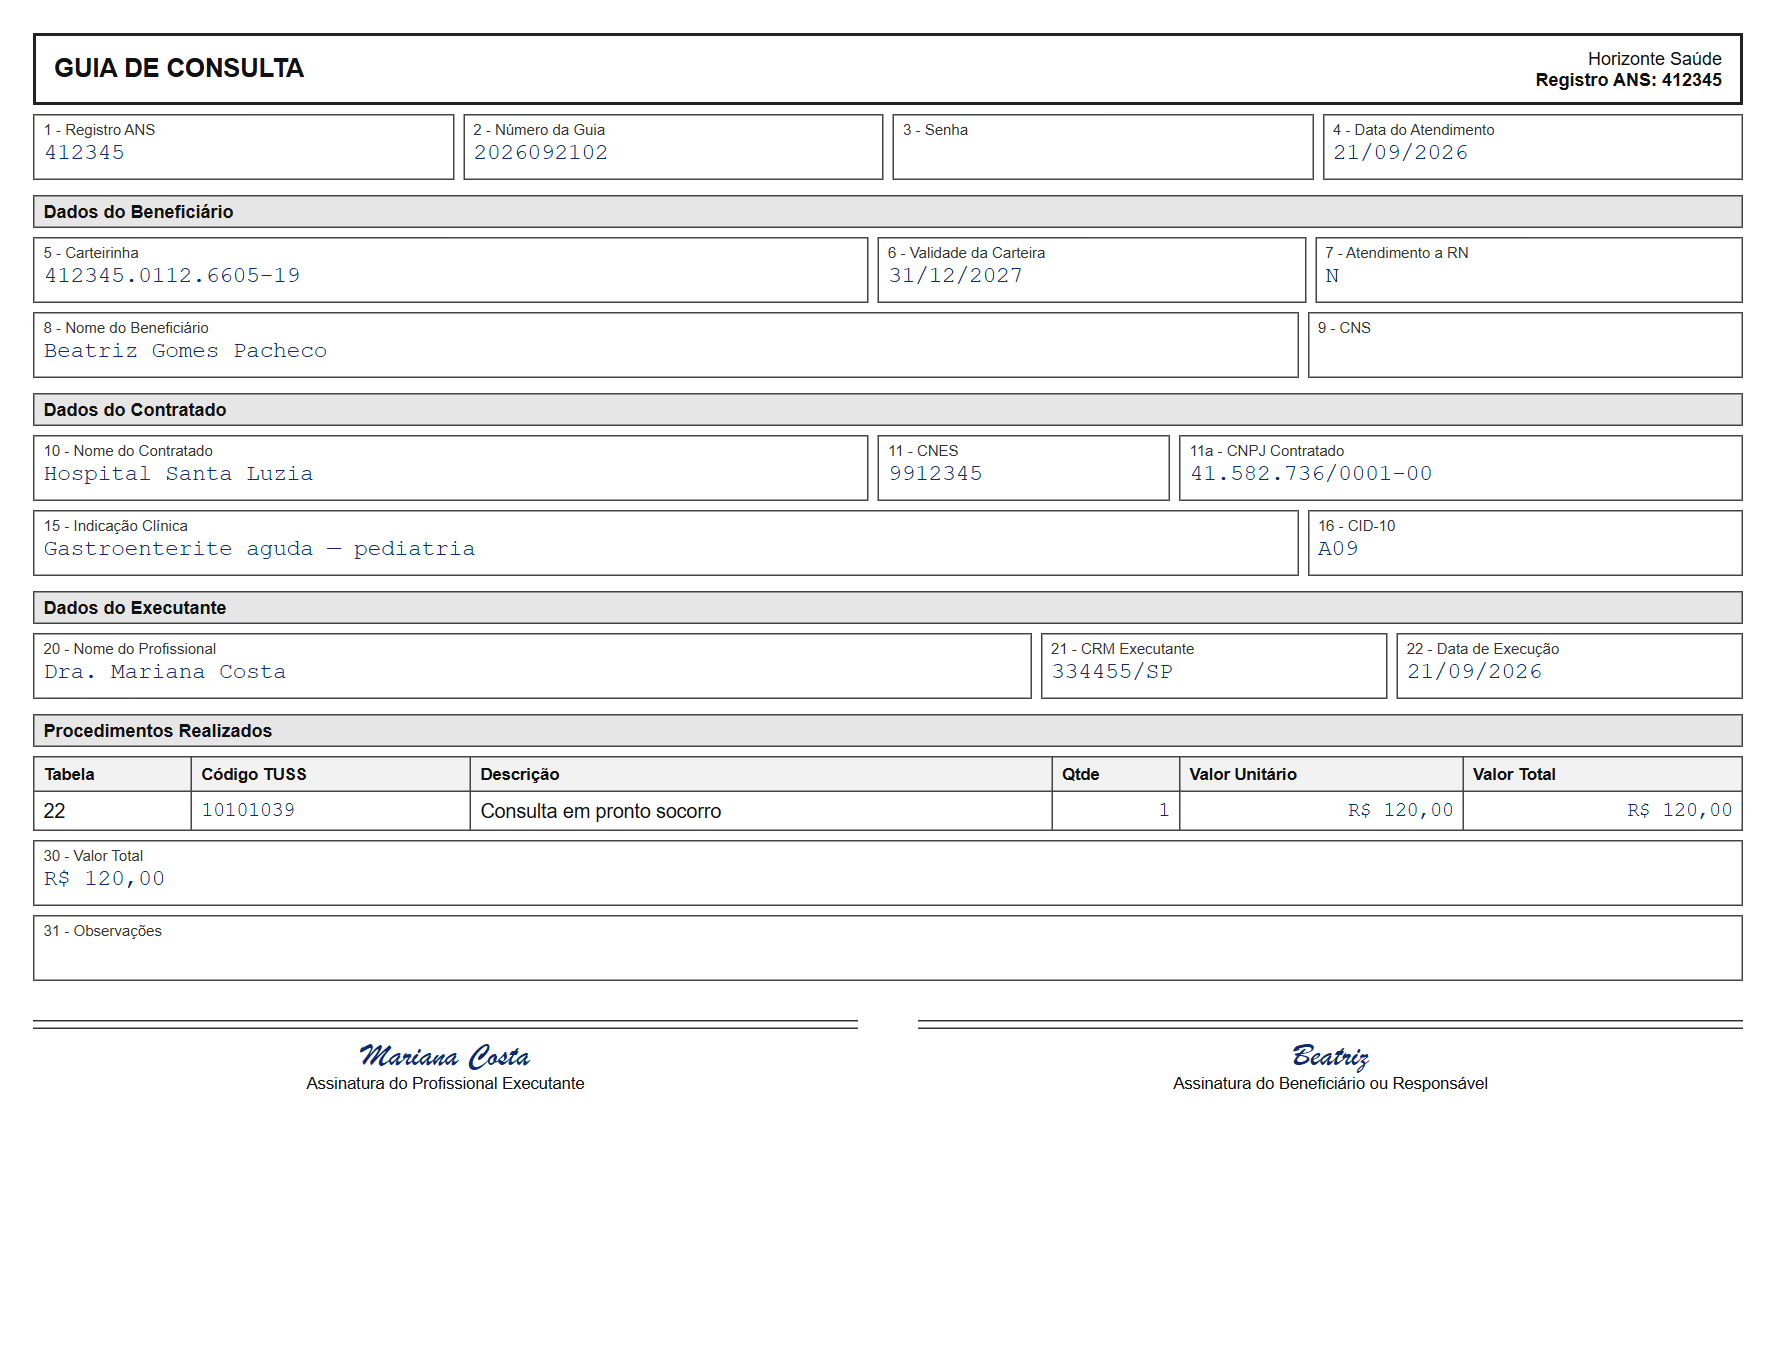
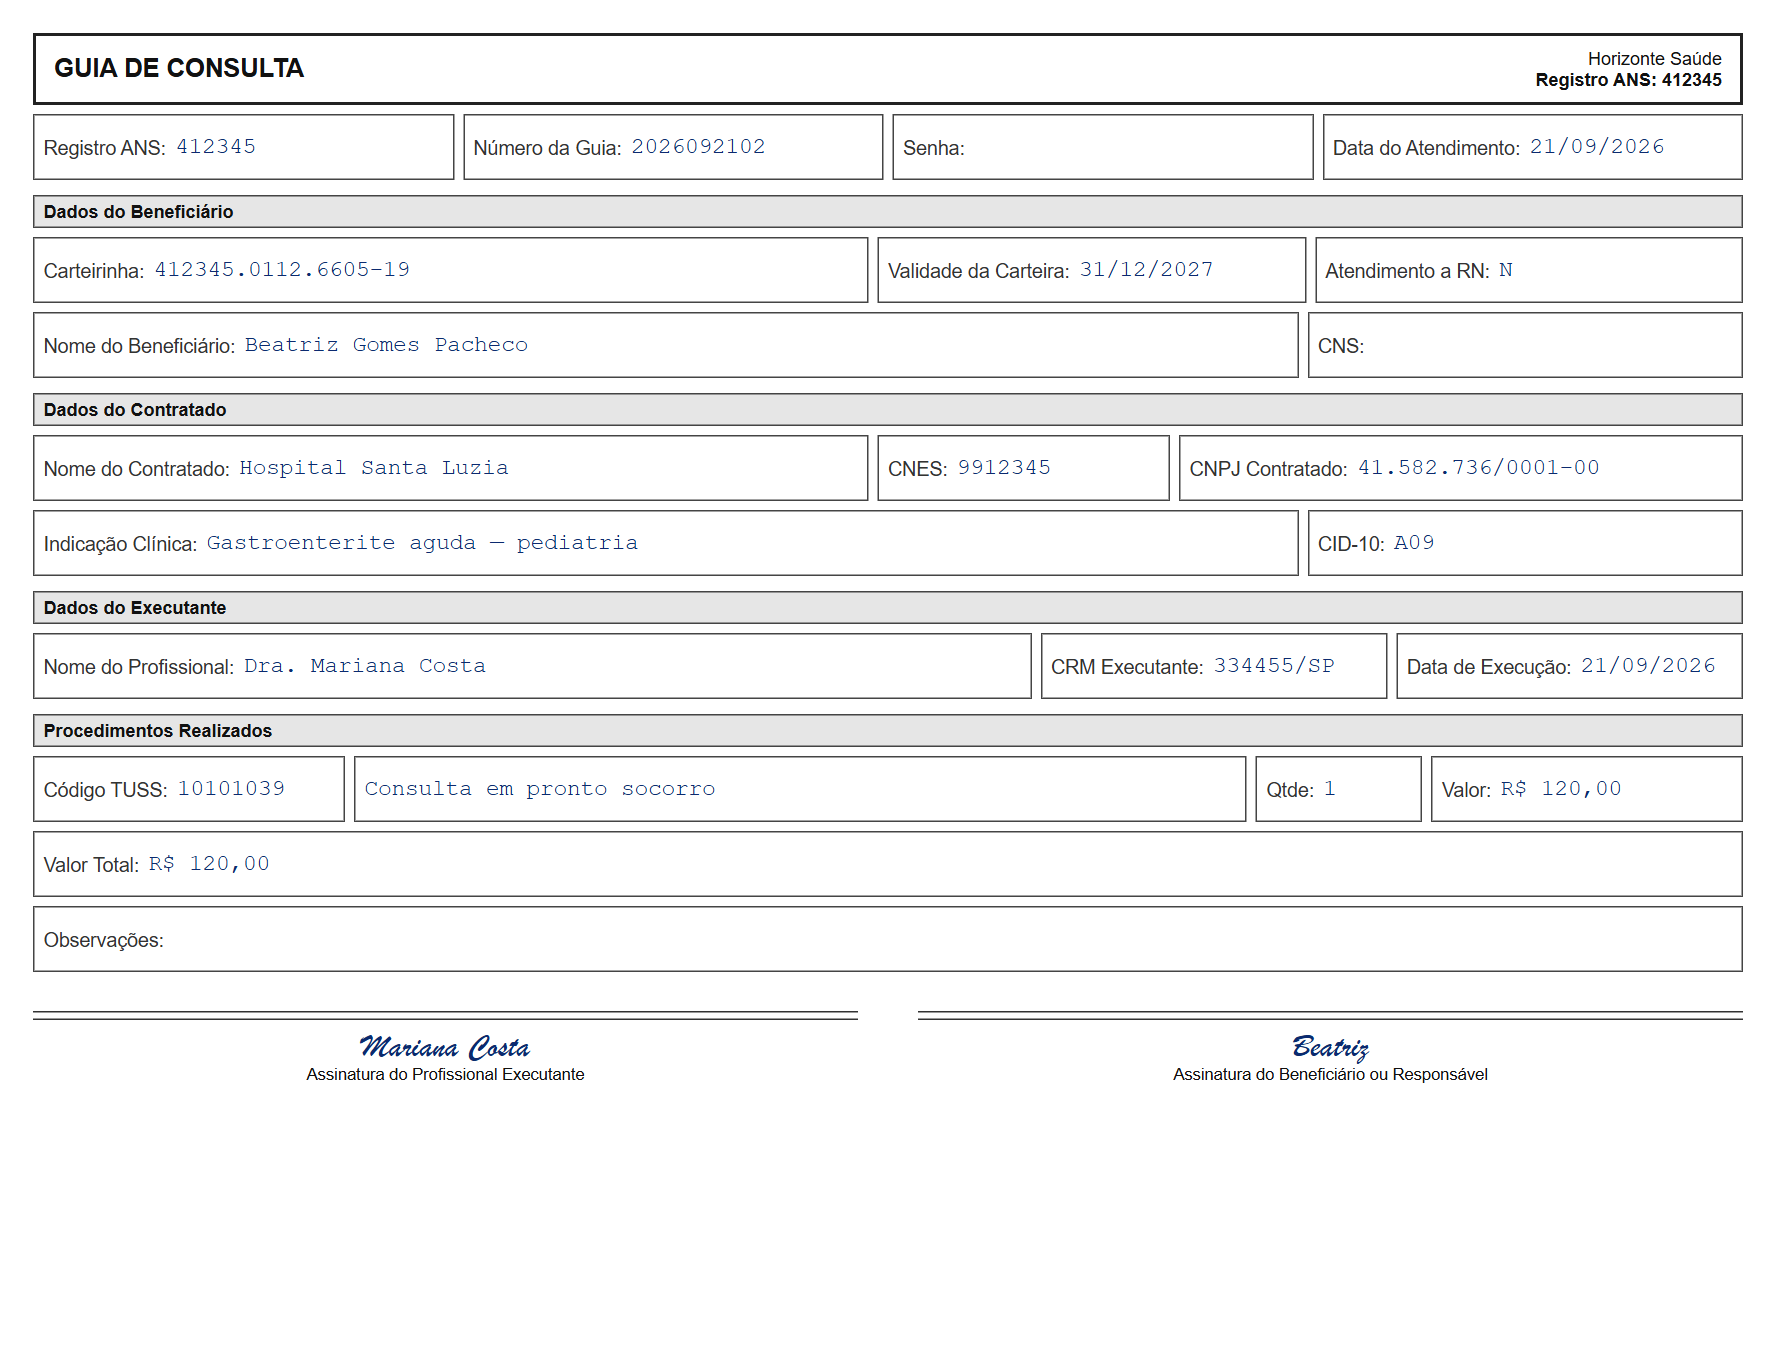
chore(demo): captura via worker de produção e guias legíveis pelo parser
- Guias PNG em "Rótulo: valor" na mesma linha: com o rótulo acima do
  valor (layout impresso) o parser perdia carteirinha, CNPJ, CID e TUSS,
  e toda guia saía com risco Crítico.
- Fase capture: enfileira e deixa o worker de produção (Azure OCR)
  processar, uma guia por vez com folga para o limite do plano F0;
  a decisão de revisão só é aplicada após o pipeline concluir.
- Novas fases reset-capture e capture-status (avança PARSING → REVIEW /
  APPROVED pelo service, já que o pipeline deixa o status em PARSING).
- Script aplicar-migrations.ps1 (supabase db push via npx).

diff --git a/scripts/demo/seed-demo-tenant.ts b/scripts/demo/seed-demo-tenant.ts
@@ -58,9 +58,8 @@ import { ensureDraftClosingForCompetence, refreshClosingTotalsFromOperationalDat
 import { ensureDraftReconciliationForCompetence, linkReconciliationToClosing } from "@/lib/services/reconciliation/reconciliation-service";
 import { runOperationalMatching } from "@/lib/services/reconciliation/reconciliation-matching-service";
 import { applyCsvImportToReconciliation } from "@/lib/services/reconciliation/reconciliation-import-service";
-import { createCaptureSession, uploadCaptureDocument, getCaptureSession } from "@/lib/capture/infrastructure/capture-session-store";
+import { createCaptureSession, uploadCaptureDocument, getCaptureSession, transitionCaptureSession } from "@/lib/capture/infrastructure/capture-session-store";
 import { enqueueCapturePipelineJob } from "@/lib/capture/infrastructure/capture-pipeline-queue";
-import { processCapturePipelineJob } from "@/lib/capture/infrastructure/capture-pipeline-runtime";
 import { setReviewApprovalViaEnterprise } from "@/lib/capture/enterprise/process-review-via-enterprise";
 import { getCaptureCorrectionProposalsViaEnterprise, updateCaptureCorrectionProposalViaEnterprise } from "@/lib/capture/enterprise/process-correction-via-enterprise";
 import { recordCaptureLearningDecision } from "@/lib/capture/learning/services/learning-loop-service";
@@ -1019,6 +1018,59 @@ async function phaseResetTiss(env: Env): Promise<void> {
   log(`reset eventos de faturamento: ${count ?? 0}`);
 }
 
+/**
+ * O pipeline de produção conclui OCR → parser → auditoria → risco, mas deixa
+ * capture_sessions.status em PARSING, e a decisão de revisão não pula etapas
+ * (transições lineares). Avança as sessões processadas pelo service:
+ * aprovadas até APPROVED, as demais até REVIEW.
+ */
+async function phaseCaptureStatus(env: Env): Promise<void> {
+  const { admin, tenantId, fin } = env;
+  const rows = await must(admin.from("capture_sessions").select("id, status, metadata").eq("tenant_id", tenantId).is("deleted_at", null), "sessions");
+  const order = ["PARSING", "AUDITING", "REVIEW", "APPROVED"] as const;
+  for (const r of rows) {
+    const meta = r.metadata as Record<string, any>;
+    if (meta?.parser?.status !== "completed") continue;
+    const target = meta?.review?.approvalStatus === "aprovada" ? "APPROVED" : "REVIEW";
+    let idx = order.indexOf(r.status as (typeof order)[number]);
+    if (idx < 0) continue;
+    while (order[idx] !== target) {
+      idx++;
+      await transitionCaptureSession(fin, r.id, order[idx]!, "demo_seed_status_sync");
+    }
+    const final = await getCaptureSession(fin, r.id);
+    log(`sessão ${r.id.slice(0, 8)}: ${r.status} → ${final.status} (fila ${resolveProcessingQueue(final.status, final.metadata as Record<string, unknown>)})`);
+  }
+}
+
+/** Apaga as sessões de Captura do tenant demo (linhas, jobs, arquivos e eventos) para refazer a fase capture. */
+async function phaseResetCapture(env: Env): Promise<void> {
+  const { admin, tenantId } = env;
+  const sessions = await must(admin.from("capture_sessions").select("id").eq("tenant_id", tenantId), "sessions");
+  const ids = sessions.map((s) => s.id);
+  if (!ids.length) return log("reset-capture: nada a apagar");
+  const paths: string[] = [];
+  const walk = async (prefix: string): Promise<void> => {
+    const { data } = await admin.storage.from("clinical-documents").list(prefix, { limit: 100 });
+    for (const o of data ?? []) {
+      if (o.id) paths.push(`${prefix}/${o.name}`);
+      else await walk(`${prefix}/${o.name}`);
+    }
+  };
+  for (const id of ids) await walk(`${tenantId}/${id}`);
+  if (paths.length) {
+    const { error } = await admin.storage.from("clinical-documents").remove(paths);
+    if (error) throw new Error(`reset-capture storage: ${error.message}`);
+  }
+  for (const t of ["capture_pipeline_jobs", "capture_corrections", "capture_findings", "capture_fields", "capture_pages", "capture_documents"] as const) {
+    await maybe(admin.from(t as "capture_documents").delete().eq("tenant_id", tenantId).in("session_id", ids), `reset ${t}`);
+  }
+  await maybe(admin.from("operational_events").delete().eq("tenant_id", tenantId).in("entity_id", ids), "reset events");
+  await maybe(admin.from("operational_events").delete().eq("tenant_id", tenantId).in("metadata->>sessionId" as never, ids), "reset events meta");
+  await maybe(admin.from("capture_sessions").delete().eq("tenant_id", tenantId).in("id", ids), "reset sessions");
+  log(`reset-capture: ${ids.length} sessões e ${paths.length} arquivos removidos`);
+}
+
 /** (Re)gera o XML TISS dos lotes já enviados que ainda não têm exportação registrada. */
 async function phaseXml(env: Env): Promise<void> {
   const { admin, tenantId, fin } = env;
@@ -1204,22 +1256,20 @@ async function phaseCapture(env: Env): Promise<void> {
       continue;
     }
 
-    // Enfileira como o upload real faz e processa já (lock antes do cron).
+    // Enfileira como o upload real faz. O processamento fica com o worker de
+    // produção (pg_cron → /api/capture/process-batch), que tem as credenciais
+    // do OCR (Azure). Uma guia por vez: o plano F0 do Azure limita chamadas
+    // por minuto, e a decisão de revisão só é aplicada depois do pipeline.
     const job = await enqueueCapturePipelineJob(fin, session.id, "full");
-    const locked = await must(
-      admin.from("capture_pipeline_jobs").update({ status: "processing", locked_by: "demo-seed", locked_at: new Date().toISOString(), attempts: 1 }).eq("id", job.id).eq("status", "queued").select("*"),
-      "lock job",
-    );
     const t0 = Date.now();
-    if (locked.length) {
-      await processCapturePipelineJob(admin, locked[0]!);
-    } else {
-      log(`captura ${g.file}: job assumido pelo worker de produção — aguardando…`);
-      for (let i = 0; i < 60; i++) {
-        const j = await must(admin.from("capture_pipeline_jobs").select("status").eq("id", job.id).single(), "job");
-        if (j.status === "succeeded" || j.status === "dead_letter") break;
-        await new Promise((r) => setTimeout(r, 5000));
-      }
+    let jobStatus = "queued";
+    for (let i = 0; i < 120 && jobStatus !== "succeeded" && jobStatus !== "dead_letter"; i++) {
+      await new Promise((r) => setTimeout(r, 5000));
+      jobStatus = (await must(admin.from("capture_pipeline_jobs").select("status").eq("id", job.id).single(), "job")).status;
+    }
+    if (jobStatus !== "succeeded") {
+      log(`captura ${g.file}: job terminou como ${jobStatus} — revisão NÃO aplicada`);
+      continue;
     }
 
     const after = await getCaptureSession(fin, session.id);
@@ -1256,6 +1306,8 @@ async function phaseCapture(env: Env): Promise<void> {
     }
     const final = await getCaptureSession(fin, session.id);
     log(`  → fila: ${resolveProcessingQueue(final.status, final.metadata as Record<string, unknown>)} (${final.status})`);
+    // Folga para o limite de chamadas por minuto do OCR (Azure F0).
+    await new Promise((r) => setTimeout(r, 65_000));
   }
 }
 
@@ -1264,7 +1316,7 @@ async function phaseCapture(env: Env): Promise<void> {
 async function main() {
   loadEnv();
   const arg = process.argv.find((a) => a.startsWith("--phase="));
-  const phases = arg ? arg.slice(8).split(",") : ["base", "shifts", "tiss", "xml", "contract", "contract-review", "capture"];
+  const phases = arg ? arg.slice(8).split(",") : ["base", "shifts", "tiss", "xml", "contract", "contract-review", "capture", "capture-status"];
   const dryRun = process.argv.includes("--dry-run");
   const env = await buildEnv();
   log(`senha dos usuários demo: ${DEMO_PASSWORD} (domínio @${D.DEMO_EMAIL_DOMAIN})`);
@@ -1276,6 +1328,8 @@ async function main() {
     else if (phase === "tiss") await phaseTiss(env);
     else if (phase === "xml") await phaseXml(env);
     else if (phase === "reset-tiss") await phaseResetTiss(env);
+    else if (phase === "reset-capture") await phaseResetCapture(env);
+    else if (phase === "capture-status") await phaseCaptureStatus(env);
     else if (phase === "contract") await phaseContract(env);
     else if (phase === "contract-review") await phaseContractReview(env);
     else if (phase === "capture") await phaseCapture(env);
